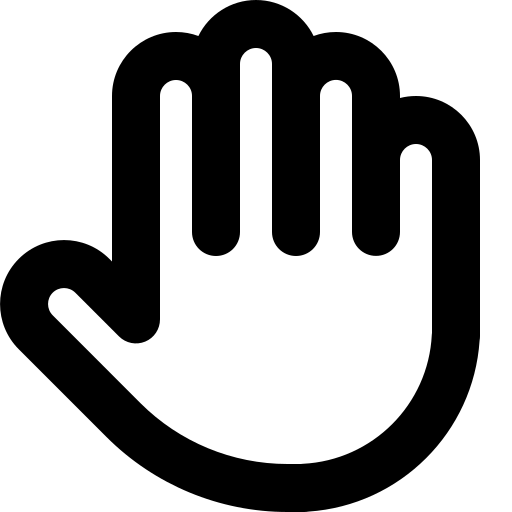
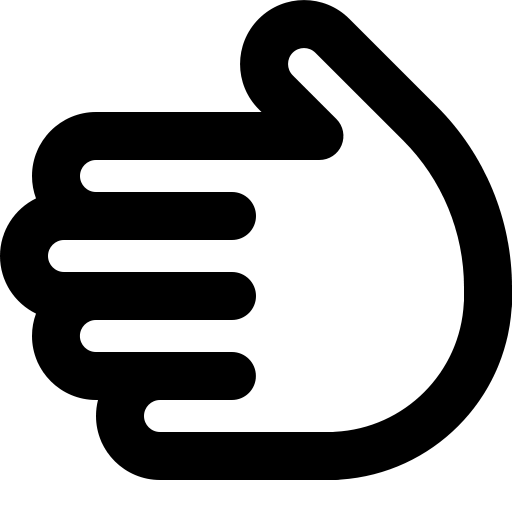
so many changes

diff --git a/main.css b/main.css
@@ -19,67 +19,38 @@ main {
   position: relative;
   display: flex;
   flex-direction: column;
-  height: calc(100vh - 7vh);
+  height: calc(100vh - 8vh);
 }
 
-svg {
-  font-size: 10rem;
+img {
+  display: block;
+  width: 100%;
 }
-
 
 /* id styles */
-
-#rock {
-  transform: rotate(90deg);
-  fill: white;
-}
-
-#rock2 {
-  transform: rotate(90deg) rotateX(180deg);
-}
-
-#paper {
-  transform: rotate(90deg);
-  fill: white;
-  display: none;
-}
-
-#paper2 {
-  transform: rotate(90deg) rotateX(180deg);
-  display: none;
-}
-
-#scissor {
-  transform: rotateY(180deg);
-  fill: white;
-  display: none;
-}
-
-#scissor2 {
-  display: none;
-}
 
 /* class styles */
 
 .header {
   background: black;
-  height: 7vh;
+  min-height: 8vh;
   display: flex;
   justify-content: space-around;
   align-items: center;
 }
 
-.player1-score, .player2-score {
-	color: white;
-	border-radius: 5px;
-	text-align: center;
-	padding: 0.25rem 0.75rem;
-	font-size: 1.5rem;
+.player1-score,
+.player2-score {
+  color: white;
+  border-radius: 5px;
+  text-align: center;
+  padding: 0.25rem 0.75rem;
+  font-size: 1.5rem;
 }
 
 .game-title {
   color: white;
-	font-size: 1.75rem;
+  font-size: 1.75rem;
 }
 
 .player1-side {
@@ -98,8 +69,13 @@ svg {
   height: 100%;
 }
 
+.player1-throw,
+.player2-throw {
+  width: 160px;
+}
+
 .playing {
-	animation: playing 0.5s 3;
+  animation: playing 0.5s 3;
 }
 
 .game-start {
@@ -110,7 +86,7 @@ svg {
 }
 
 .game-reset {
-	display: none;
+  display: none;
   position: absolute;
   top: 50%;
   left: 50%;
@@ -136,33 +112,38 @@ svg {
 }
 
 @media screen and (min-width: 800px) {
-	main {
-		flex-direction: row;
-	}
+  main {
+    flex-direction: row;
+  }
 
-	.player1-side {
-		width: 50%;
-	}
+  .player1-side {
+    width: 50%;
+  }
 
-	.player2-side {
-		width: 50%;
-	}
+  .player2-side {
+    width: 50%;
+  }
 
-	.game-title {
-		font-size: 2.25rem;
-	}
+  .game-title {
+    font-size: 2.25rem;
+  }
+
+  .player1-throw,
+  .player2-throw {
+    width: 200px;
+  }
 }
 
 @keyframes playing {
-	0% {
-		transform: translateY(0);
-	}
+  0% {
+    transform: translateY(0);
+  }
 
-	50% {
-		transform: translateY(20px);
-	}
+  50% {
+    transform: translateY(20px);
+  }
 
-	100% {
-		transform: translateY(0);
-	}
+  100% {
+    transform: translateY(0);
+  }
 }

diff --git a/app.js b/app.js
@@ -2,20 +2,16 @@
 
 const gameStartBtn = document.querySelector('.game-start')
 const gameResettBtn = document.querySelector('.game-reset')
-const playerOneRock = document.querySelector('#rock')
-const playerOnePaper = document.querySelector('#paper')
-const playerOneScissor = document.querySelector('#scissor')
-const playerTwoRock = document.querySelector('#rock2')
-const playerTwoPaper = document.querySelector('#paper2')
-const playerTwoScissor = document.querySelector('#scissor2')
 const playerOneScore = document.querySelector('.p1-score')
 const playerTwoScore = document.querySelector('.p2-score')
 const playerOneThrow = document.querySelector('.player1-throw')
 const playerTwoThrow = document.querySelector('.player2-throw')
 
 function gamePlay() {
-	playerOneThrow.classList.toggle('playing')
-	playerTwoThrow.classList.toggle('playing')
+  playerOneThrow.classList.toggle('playing')
+  playerTwoThrow.classList.toggle('playing')
 }
+
+const throws = ['url']
 
 gameStartBtn.addEventListener('click', gamePlay)

diff --git a/index.html b/index.html
@@ -30,9 +30,8 @@
       <!-- player1 side -->
       <section class="player1-side">
         <!-- player1-throw -->
-
         <div class="player1-throw">
-
+					<img class="player1-throw__move" src="./assets/whiteRock.png" alt="">
         </div>
         <!-- end of player1-throw -->
       </section>
@@ -51,6 +50,7 @@
       <section class="player2-side">
         <!-- player2-throw -->
         <div class="player2-throw">
+					<img class="player2-throw__move" src="./assets/blackRock.png" alt="">
         </div>
         <!-- end of player2-throw -->
       </section>
